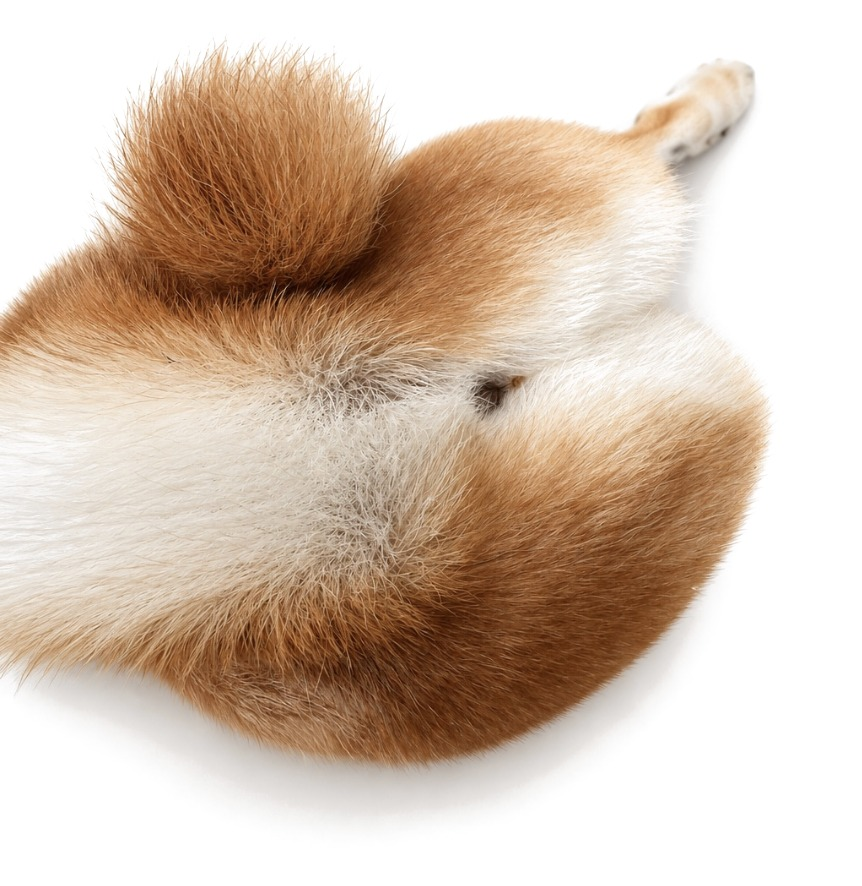
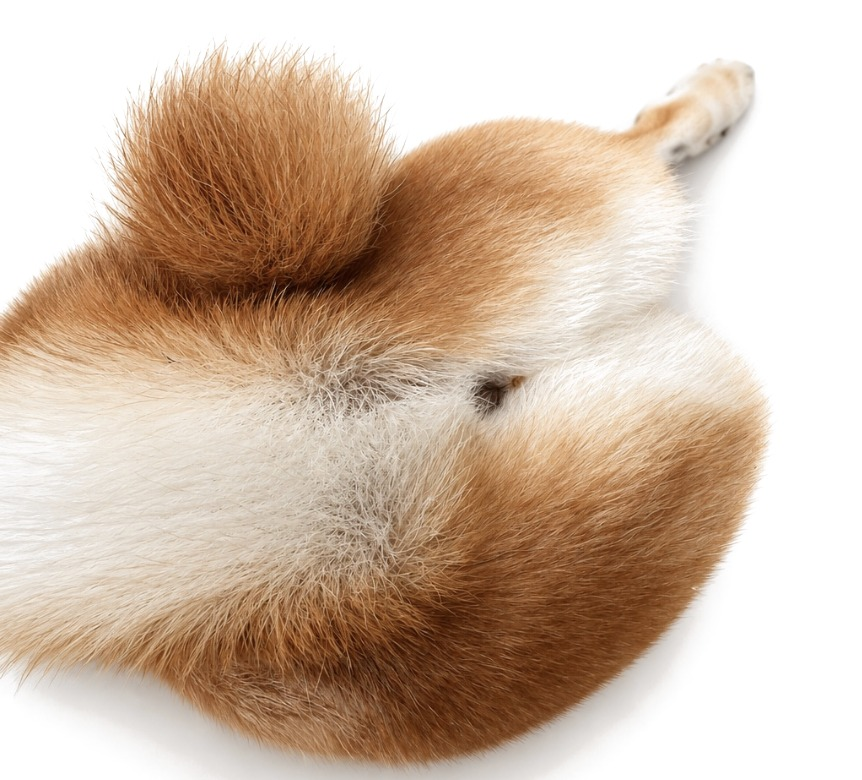
Rebuild as stacked product tiles with pre-order dates and pricing pill

diff --git a/index.html b/index.html
@@ -10,60 +10,51 @@
 <style>
 :root{
   --bg:#ffffff;--bg-2:#f5f5f7;--ink:#1d1d1f;--ink-2:#6e6e73;--ink-3:#86868b;
-  --line:#d2d2d7;--btn:#1d1d1f;--btn-ink:#ffffff;--nav:rgba(255,255,255,.85);
-  --font:-apple-system,BlinkMacSystemFont,"SF Pro Display","Helvetica Neue",Helvetica,Arial,sans-serif;
+  --line:#d2d2d7;--btn:#1d1d1f;--btn-ink:#ffffff;--blue:#0071e3;--blue-2:#0077ed;--nav:rgba(255,255,255,.85);
+  --font:-apple-system,BlinkMacSystemFont,"SF Pro Display","SF Pro Text","Helvetica Neue",Helvetica,Arial,sans-serif;
 }
 html{color-scheme:light}
 *{box-sizing:border-box}
 body{margin:0;background:var(--bg);color:var(--ink);font-family:var(--font);-webkit-font-smoothing:antialiased;line-height:1.4;overflow-x:hidden}
 a{color:inherit;text-decoration:none}
 img{max-width:100%;height:auto;display:block}
+.wrap{max-width:1024px;margin:0 auto;padding-inline:22px}
 
 /* nav */
 .nav{position:sticky;top:env(safe-area-inset-top,0px);z-index:10;background:var(--nav);backdrop-filter:saturate(180%) blur(20px);-webkit-backdrop-filter:saturate(180%) blur(20px)}
-.nav-in{max-width:1024px;margin:0 auto;padding:0 22px;height:48px;display:flex;align-items:center;gap:36px;font-size:12px;color:var(--ink-2)}
-.nav-in .logo{color:var(--ink);display:flex;margin-right:auto}
-.nav-in .logo svg{width:20px;height:20px}
-.nav-in .links{display:flex;gap:36px;margin-right:auto}
-.nav-in .links a:first-child{color:var(--ink);font-weight:500}
-.nav-in .icons{display:flex;gap:28px;color:var(--ink)}
+.nav-in{max-width:1024px;margin:0 auto;padding:0 22px;height:48px;display:flex;align-items:center;justify-content:space-between;gap:20px;font-size:12px;color:var(--ink)}
+.nav-in .logo{display:flex;color:var(--ink)}
+.nav-in .logo svg{width:18px;height:18px}
+.nav-in .links{display:flex;gap:30px;flex:1;justify-content:space-between;max-width:760px;margin-inline:30px;overflow-x:auto;scrollbar-width:none}
+.nav-in .links::-webkit-scrollbar{display:none}
+.nav-in .links a{white-space:nowrap;opacity:.85}
+.nav-in .links a:hover{opacity:1}
+.nav-in .icons{display:flex;gap:26px}
 .nav-in .icons svg{width:16px;height:16px}
-@media(max-width:640px){.nav-in{gap:18px}.nav-in .links{gap:18px}}
+@media(max-width:640px){.nav-in .links{gap:18px;margin-inline:12px}.nav-in .icons{gap:16px}}
 
-/* hero */
-.wrap{max-width:1024px;margin:0 auto;padding-inline:22px}
-.hero{display:grid;grid-template-columns:1fr 1fr;align-items:center;gap:24px;padding-block:44px 30px;position:relative}
-.eyebrow{font-size:11px;letter-spacing:.32em;text-transform:uppercase;color:var(--ink-2);margin:0 0 18px}
-.hero h1{font-size:clamp(46px,7vw,76px);line-height:1.02;letter-spacing:-.03em;font-weight:600;margin:0}
-.hero .sub{font-size:clamp(20px,2.4vw,26px);color:var(--ink-2);margin:22px 0 32px}
-.btn{display:inline-flex;align-items:center;gap:6px;background:var(--btn);color:var(--btn-ink);border-radius:999px;padding:12px 26px;font-size:17px;transition:transform .2s,opacity .2s}
-.btn:hover{transform:translateY(-1px);opacity:.92}
-.hero .art{position:relative}
-.hero .art img{width:100%;max-width:440px;max-height:520px;object-fit:contain;margin-inline:auto;animation:float 6s ease-in-out infinite}
-.hero .tag{position:absolute;right:0;top:24px;font-size:11px;letter-spacing:.14em;color:var(--ink-2);line-height:1.6;text-align:right}
-.hero .tag b{font-weight:600;letter-spacing:.14em}
-@keyframes float{0%,100%{transform:translateY(0)}50%{transform:translateY(-8px)}}
-@media(prefers-reduced-motion:reduce){.hero .art img{animation:none}}
-@media(max-width:760px){.hero{grid-template-columns:1fr;text-align:left}.hero .tag{position:static;margin-top:14px}}
-
-/* lineup */
-.lineup{text-align:center;padding-block:40px 60px}
-.lineup .eyebrow{margin-bottom:34px}
-.grid{display:grid;grid-template-columns:repeat(3,1fr);gap:28px}
-.card{display:flex;flex-direction:column;align-items:center;gap:8px}
-.card .cmark{width:22px;height:22px;margin-bottom:2px}
-.card h3{font-size:24px;font-weight:600;letter-spacing:-.01em;margin:0}
-.card .tag{font-size:15px;color:var(--ink-2);margin:0}
-.card .pic{height:240px;display:flex;align-items:center;justify-content:center;width:100%;margin-block:10px}
-.card .pic img{max-height:100%;max-width:100%;width:auto;height:auto;object-fit:contain;transition:transform .35s}
-.card:hover .pic img{transform:scale(1.04)}
-.card .price{font-size:22px;font-weight:600;margin:6px 0 4px;font-variant-numeric:tabular-nums}
-.pill{display:inline-flex;align-items:center;gap:4px;border:1px solid var(--line);border-radius:999px;padding:8px 22px;font-size:14px;color:var(--ink);transition:background .2s}
-.pill:hover{background:var(--bg-2)}
-@media(max-width:760px){.grid{grid-template-columns:1fr;gap:44px}.card .pic{height:200px}}
+/* product tiles */
+.tile{text-align:center;padding-block:56px 0;position:relative}
+.tile+.tile{border-top:1px solid var(--bg-2)}
+.tile .name{font-size:22px;font-weight:600;margin:0 0 6px;letter-spacing:-.01em}
+.tile .mark{width:30px;height:30px;margin:0 auto 10px;display:block}
+.tile h2{font-size:clamp(48px,8.5vw,96px);font-weight:700;letter-spacing:-.035em;line-height:1;margin:0 0 26px;text-wrap:balance}
+.tile .dates{font-size:clamp(16px,2vw,21px);line-height:1.5;margin:0 0 30px;color:var(--ink)}
+.tile .stage{position:relative;max-width:1180px;margin:0 auto;padding-inline:22px}
+.tile .stage img{margin:0 auto;width:100%}
+.tile.air .stage img{max-width:560px;-webkit-mask-image:linear-gradient(to right,transparent,#000 14%,#000 100%);mask-image:linear-gradient(to right,transparent,#000 14%,#000 100%)}
+.tile.promax .stage img{max-width:520px}
+.tile.duo .stage img{max-width:900px}
+.tile .buy{position:relative;z-index:1;display:inline-flex;align-items:center;gap:22px;background:var(--bg-2);border-radius:999px;padding:8px 8px 8px 30px;margin:-56px auto 0;box-shadow:0 2px 12px rgba(0,0,0,.06)}
+.tile .buy .from{font-size:19px;font-weight:600;font-variant-numeric:tabular-nums;white-space:nowrap}
+.tile .buy .cta{background:var(--blue);color:#fff;border-radius:999px;padding:16px 32px;font-size:21px;line-height:1;transition:background .2s}
+.tile .buy .cta:hover{background:var(--blue-2)}
+.tile .sub{font-size:13px;color:var(--ink-2);margin:14px 0 0}
+.tile .after{padding-bottom:72px}
+@media(max-width:640px){.tile .buy{gap:12px;padding:6px 6px 6px 18px;margin-top:-30px}.tile .buy .from{font-size:15px}.tile .buy .cta{padding:12px 20px;font-size:16px}}
 
 /* values */
-.values{background:var(--bg-2);padding-block:52px}
+.values{background:var(--bg-2);padding-block:56px}
 .values .wrap{display:grid;grid-template-columns:repeat(4,1fr);gap:24px;text-align:center}
 .values svg{width:34px;height:34px;stroke:var(--ink);fill:none;stroke-width:1.4;stroke-linecap:round;stroke-linejoin:round;margin:0 auto 12px}
 .values h4{margin:0 0 4px;font-size:17px;font-weight:600}
@@ -71,8 +62,8 @@ img{max-width:100%;height:auto;display:block}
 @media(max-width:760px){.values .wrap{grid-template-columns:1fr 1fr;gap:36px 16px}}
 
 /* closing */
-.closing{text-align:center;padding-top:52px;overflow:hidden}
-.closing .eyebrow{margin-bottom:22px}
+.closing{text-align:center;padding-top:60px;overflow:hidden}
+.eyebrow{font-size:11px;letter-spacing:.32em;text-transform:uppercase;color:var(--ink-2);margin:0 0 22px}
 .closing h2{font-size:clamp(40px,6vw,66px);letter-spacing:-.03em;font-weight:600;margin:0 0 18px;line-height:1.05;text-wrap:balance}
 .closing .mark{width:26px;height:26px;margin:0 auto 12px;display:block}
 .closing p{margin:0 0 26px;font-size:15px;color:var(--ink-2)}
@@ -84,13 +75,15 @@ footer{background:var(--bg-2);padding-block:22px}
 footer .wrap{font-size:12px;color:var(--ink-3);display:flex;justify-content:space-between;flex-wrap:wrap;gap:8px}
 </style>
 
+<svg width="0" height="0" style="position:absolute" aria-hidden="true">
+  <symbol id="paw" viewBox="0 0 24 24"><ellipse cx="7" cy="7.5" rx="2.2" ry="2.8"/><ellipse cx="17" cy="7.5" rx="2.2" ry="2.8"/><ellipse cx="3.6" cy="12.5" rx="1.9" ry="2.4"/><ellipse cx="20.4" cy="12.5" rx="1.9" ry="2.4"/><path d="M12 11c3.6 0 6.6 3.4 6.6 6.4 0 2-1.4 3.3-3.2 3.3-1.3 0-2.1-.6-3.4-.6s-2.1.6-3.4.6c-1.8 0-3.2-1.3-3.2-3.3C5.4 14.4 8.4 11 12 11z"/></symbol>
+</svg>
+
 <header class="nav">
   <div class="nav-in">
-    <a class="logo" href="#" aria-label="Ciba home">
-      <svg viewBox="0 0 24 24" fill="currentColor" aria-hidden="true"><ellipse cx="7" cy="7.5" rx="2.2" ry="2.8"/><ellipse cx="17" cy="7.5" rx="2.2" ry="2.8"/><ellipse cx="3.6" cy="12.5" rx="1.9" ry="2.4"/><ellipse cx="20.4" cy="12.5" rx="1.9" ry="2.4"/><path d="M12 11c3.6 0 6.6 3.4 6.6 6.4 0 2-1.4 3.3-3.2 3.3-1.3 0-2.1-.6-3.4-.6s-2.1.6-3.4.6c-1.8 0-3.2-1.3-3.2-3.3C5.4 14.4 8.4 11 12 11z"/></svg>
-    </a>
+    <a class="logo" href="#" aria-label="Ciba home"><svg fill="currentColor"><use href="#paw"/></svg></a>
     <nav class="links">
-      <a href="#">Ciba</a><a href="#lineup">Products</a><a href="#values">CIBA Coin</a><a href="#">Support</a>
+      <a href="#">Store</a><a href="#air">Ciba Air</a><a href="#promax">Ciba Pro Max</a><a href="#duo">Ciba Duo</a><a href="#">Treats</a><a href="#">Toys</a><a href="#">Walks</a><a href="#values">CIBA Coin</a><a href="#">Accessories</a><a href="#">Support</a>
     </nav>
     <div class="icons">
       <svg viewBox="0 0 24 24" fill="none" stroke="currentColor" stroke-width="1.8" stroke-linecap="round" aria-hidden="true"><circle cx="10.5" cy="10.5" r="6.5"/><path d="M20 20l-4.5-4.5"/></svg>
@@ -99,44 +92,34 @@ footer .wrap{font-size:12px;color:var(--ink-3);display:flex;justify-content:spac
   </div>
 </header>
 
-<section class="wrap hero">
-  <div>
-    <p class="eyebrow">A new friend for a brighter day</p>
-    <h1>Ciba.<br>Beyond<br>Companionship.</h1>
-    <p class="sub">Pure joy. Infinite possibilities.</p>
-    <a class="btn" href="#lineup">Explore the lineup <span aria-hidden="true">›</span></a>
-  </div>
-  <div class="art">
-    <img src="img/hero.jpg" alt="Ciba Air curled into a fluffy ball" width="862" height="886">
-    <p class="tag"><b>Ciba Air</b><br>Light. Always with you.</p>
-  </div>
+<section class="tile duo" id="duo">
+  <svg class="mark" fill="currentColor"><use href="#paw"/></svg>
+  <p class="name">Ciba Duo</p>
+  <h2>Hello, hello.</h2>
+  <p class="dates">Pre-order starting at 8pm SGT on 16 October<br>Available starting 23 October</p>
+  <div class="stage"><img src="img/duo.jpg" alt="Two Cibas lying side by side, tails touching" width="1680" height="710"></div>
+  <div class="buy"><span class="from">From 88,999 CIBA Coin</span><a class="cta" href="#">View pricing</a></div>
+  <p class="sub after">Better together.</p>
 </section>
 
-<section class="wrap lineup" id="lineup">
-  <p class="eyebrow">Three ways to a brighter day</p>
-  <div class="grid">
-    <article class="card">
-      <svg class="cmark" viewBox="0 0 24 24" fill="currentColor" aria-hidden="true"><ellipse cx="7" cy="7.5" rx="2.2" ry="2.8"/><ellipse cx="17" cy="7.5" rx="2.2" ry="2.8"/><ellipse cx="3.6" cy="12.5" rx="1.9" ry="2.4"/><ellipse cx="20.4" cy="12.5" rx="1.9" ry="2.4"/><path d="M12 11c3.6 0 6.6 3.4 6.6 6.4 0 2-1.4 3.3-3.2 3.3-1.3 0-2.1-.6-3.4-.6s-2.1.6-3.4.6c-1.8 0-3.2-1.3-3.2-3.3C5.4 14.4 8.4 11 12 11z"/></svg>
-      <h3>Ciba Air</h3><p class="tag">Light. Always with you.</p>
-      <div class="pic"><img src="img/air.jpg" alt="Ciba Air, curled up" width="862" height="886"></div>
-      <p class="price">8,999 CIBA Coin</p>
-      <a class="pill" href="#">Learn more <span aria-hidden="true">›</span></a>
-    </article>
-    <article class="card">
-      <svg class="cmark" viewBox="0 0 24 24" fill="currentColor" aria-hidden="true"><ellipse cx="7" cy="7.5" rx="2.2" ry="2.8"/><ellipse cx="17" cy="7.5" rx="2.2" ry="2.8"/><ellipse cx="3.6" cy="12.5" rx="1.9" ry="2.4"/><ellipse cx="20.4" cy="12.5" rx="1.9" ry="2.4"/><path d="M12 11c3.6 0 6.6 3.4 6.6 6.4 0 2-1.4 3.3-3.2 3.3-1.3 0-2.1-.6-3.4-.6s-2.1.6-3.4.6c-1.8 0-3.2-1.3-3.2-3.3C5.4 14.4 8.4 11 12 11z"/></svg>
-      <h3>Ciba Pro Max</h3><p class="tag">More to love. In every way.</p>
-      <div class="pic"><img src="img/promax.jpg" alt="Ciba Pro Max, looking over its shoulder" width="780" height="790"></div>
-      <p class="price">18,999 CIBA Coin</p>
-      <a class="pill" href="#">Learn more <span aria-hidden="true">›</span></a>
-    </article>
-    <article class="card">
-      <svg class="cmark" viewBox="0 0 24 24" fill="currentColor" aria-hidden="true"><ellipse cx="7" cy="7.5" rx="2.2" ry="2.8"/><ellipse cx="17" cy="7.5" rx="2.2" ry="2.8"/><ellipse cx="3.6" cy="12.5" rx="1.9" ry="2.4"/><ellipse cx="20.4" cy="12.5" rx="1.9" ry="2.4"/><path d="M12 11c3.6 0 6.6 3.4 6.6 6.4 0 2-1.4 3.3-3.2 3.3-1.3 0-2.1-.6-3.4-.6s-2.1.6-3.4.6c-1.8 0-3.2-1.3-3.2-3.3C5.4 14.4 8.4 11 12 11z"/></svg>
-      <h3>Ciba Duo</h3><p class="tag">Better together.</p>
-      <div class="pic"><img src="img/duo.jpg" alt="Two Cibas lying side by side" width="1680" height="710"></div>
-      <p class="price">88,999 CIBA Coin</p>
-      <a class="pill" href="#">Learn more <span aria-hidden="true">›</span></a>
-    </article>
-  </div>
+<section class="tile promax" id="promax">
+  <svg class="mark" fill="currentColor"><use href="#paw"/></svg>
+  <p class="name">Ciba Pro Max</p>
+  <h2>More, more.</h2>
+  <p class="dates">Pre-order starting at 8pm SGT on 16 October<br>Available starting 23 October</p>
+  <div class="stage"><img src="img/promax.jpg" alt="Ciba Pro Max looking over its shoulder" width="768" height="790"></div>
+  <div class="buy"><span class="from">From 18,999 CIBA Coin</span><a class="cta" href="#">View pricing</a></div>
+  <p class="sub after">More to love. In every way.</p>
+</section>
+
+<section class="tile air" id="air">
+  <svg class="mark" fill="currentColor"><use href="#paw"/></svg>
+  <p class="name">Ciba Air</p>
+  <h2>Light, light.</h2>
+  <p class="dates">Pre-order starting at 8pm SGT on 16 October<br>Available starting 23 October</p>
+  <div class="stage"><img src="img/air.jpg" alt="Ciba Air curled into a fluffy ball" width="862" height="886"></div>
+  <div class="buy"><span class="from">From 8,999 CIBA Coin</span><a class="cta" href="#">View pricing</a></div>
+  <p class="sub after">Light. Always with you.</p>
 </section>
 
 <section class="values" id="values">
@@ -152,7 +135,7 @@ footer .wrap{font-size:12px;color:var(--ink-3);display:flex;justify-content:spac
   <div class="wrap">
     <p class="eyebrow">Same spirit. A brighter tomorrow.</p>
     <h2>A More Human World.</h2>
-    <svg class="mark" viewBox="0 0 24 24" fill="currentColor" aria-hidden="true"><ellipse cx="7" cy="7.5" rx="2.2" ry="2.8"/><ellipse cx="17" cy="7.5" rx="2.2" ry="2.8"/><ellipse cx="3.6" cy="12.5" rx="1.9" ry="2.4"/><ellipse cx="20.4" cy="12.5" rx="1.9" ry="2.4"/><path d="M12 11c3.6 0 6.6 3.4 6.6 6.4 0 2-1.4 3.3-3.2 3.3-1.3 0-2.1-.6-3.4-.6s-2.1.6-3.4.6c-1.8 0-3.2-1.3-3.2-3.3C5.4 14.4 8.4 11 12 11z"/></svg>
+    <svg class="mark" fill="currentColor"><use href="#paw"/></svg>
     <p>Ciba changes everything.</p>
   </div>
   <div class="peekwrap"><img class="peek" src="img/footer.jpg" alt="A Ciba peeking up from the bottom of the page" width="412" height="418"></div>
